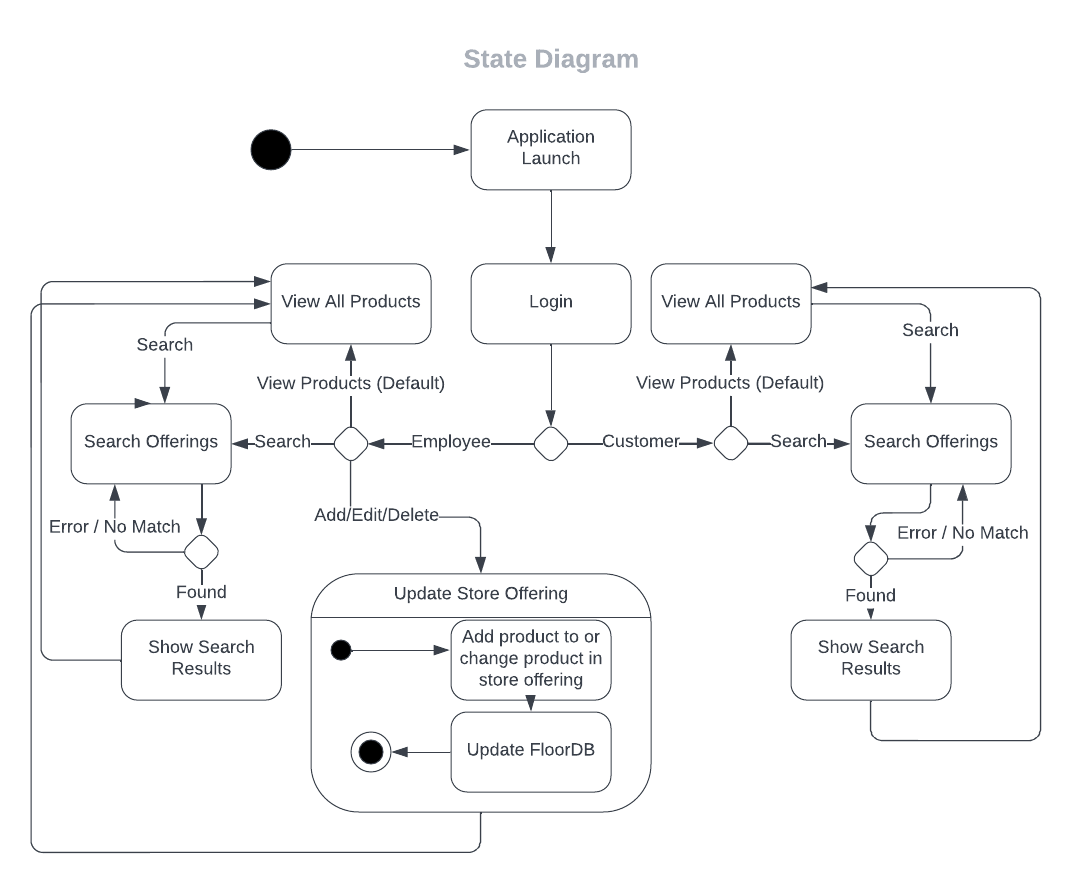
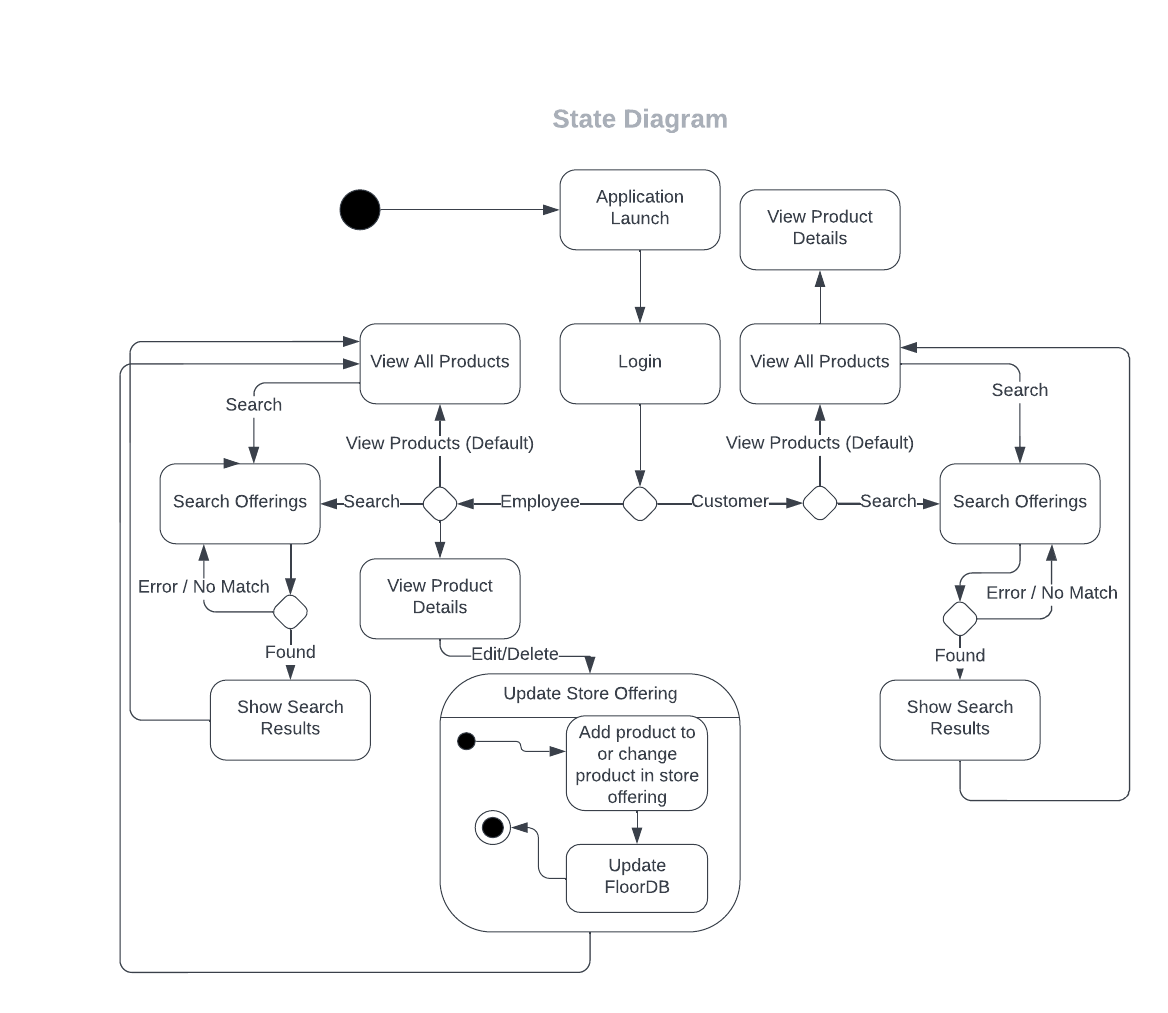
Updated state diagram

diff --git a/GroupProject/Docs/DesignDocument.md b/GroupProject/Docs/DesignDocument.md
@@ -43,7 +43,7 @@ The deployment diagram shows how the components will be deployed on a mobile dev
 
 ![](images/state-diagram.png)
 
-The state diagram shows how the system transitions between various states. This state diagram accounts for user login, view, search, and add/edit/delete. Update Store Offering is a composite state that exits when both the store offering is changed, and the database is updated. This ensures that the database is synchronized with the store offering. Search, view and add/edit/delete loop back to view all products. The exit condition is that the user must exit the application. This diagram does not account for selecting search results, adding to a cart, or viewing a detailed product description.
+The state diagram shows how the system transitions between various states. This state diagram accounts for user login, view, search, and employee add/edit/delete. Update Store Offering is a composite state that exits when both the store offering is changed, and the database is updated. This ensures that the database is synchronized with the store offerings. Search, view and add/edit/delete loop back to view all products. The exit condition is that the user must exit the application. This diagram also accounts for viewing a detailed product description through the view product details class.
 
 ## 4 User Interface Design
 
